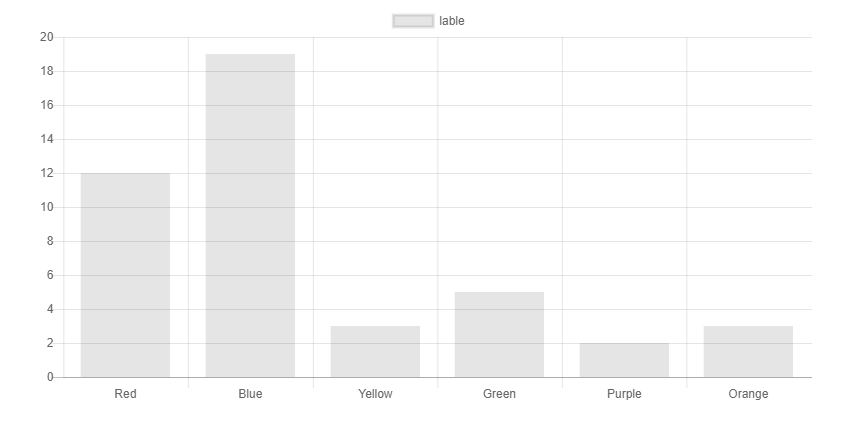
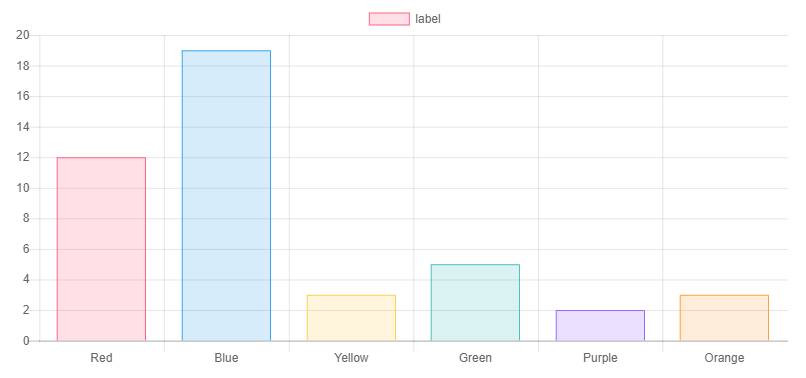
V5.1.3

diff --git a/ChartBuild/README.md b/ChartBuild/README.md
@@ -4,30 +4,10 @@
 
 ----------
 
-### 图表效果
-![bar chart demo][1]
-```
-var ctx = document.getElementById("myChart");
-var chartInstanc = new Chart(ctx, {
-    type: "bar",
-    data: {
-        labels: ["Red", "Blue", "Yellow", "Green", "Purple", "Orange"],
-        datasets: [{
-            label: "lable",
-            data: [12, 19, 3, 5, 2, 3]
-        }]
-    },
-    options: {
-        scales: {
-            yAxes: [{ticks: {beginAtZero: true}}]
-        },
-    }
-});
-```
-
-### 前端工具
-
+### 图表工具
 > Simple HTML5 Charts using the canvas element chartjs.org
+
+![chart.js][1]
 
  - github:  https://github.com/chartjs/Chart.js
  - cdnjs:   https://cdnjs.com/libraries/Chart.js
